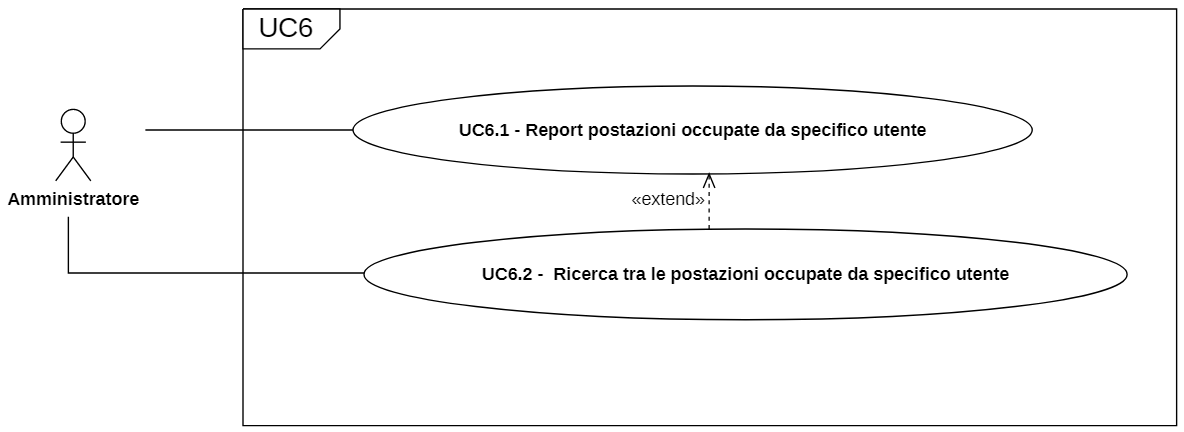
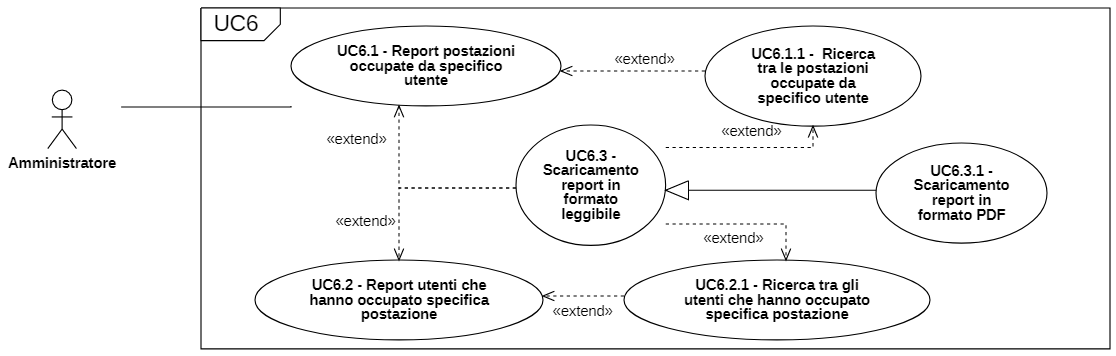
modificati UC6, UC6.1, UC6.2 e aggiunti UC6.1.1, UC6.2.1, UC6.3, UC6.3.1 #36

diff --git a/esterni/AnalisiDeiRequisiti/res/sections/casiUso.tex b/esterni/AnalisiDeiRequisiti/res/sections/casiUso.tex
@@ -453,20 +453,20 @@ In questa sezione sono riportati tutti i casi d'uso individuati, ordinati per at
 	le credenziali selezionate non sono più presenti nel sistema.
 \end{itemize}
 
-\subsubsection{ UC6 - Esplorazione postazioni occupate da uno specifico utente}
+\subsubsection{ UC6 - Esplorazione occupazioni delle postazioni}
 \begin{figure}[H]
 	\centering
-	\includegraphics[width=15cm]{res/images/UC6.png}
-	\caption{Esplorazione postazioni occupate da uno specifico utente}
-	\label{fig:Esplorazione postazioni occupate da uno specifico utente}
+	\includegraphics[width=18cm]{res/images/UC6.png}
+	\caption{Esplorazione occupazioni delle postazioni}
+	\label{fig:Esplorazione occupazioni delle postazioni}
 \end{figure}
 \begin{itemize}
 	\item\textbf{Attori Primari:} 
 	amministratore.
 	\item\textbf{Descrizione:} 
-	l'amministratore ottiene informazioni sulle postazioni occupate da uno specifico utente.
+	l'amministratore ottiene informazioni sugli eventi di occupazione.
 	\item\textbf{Scenario principale:} 
-	l'amministratore raggiunge la pagina per la ricerca delle occupazioni delle postazioni e inserisce il nickname oppure il Nome e Cognome dell'utente a cui è interessato.
+	l'amministratore raggiunge la pagina per la ricerca delle occupazioni delle postazioni e ricerca le informazioni a cui è interessato
 	\item\textbf{Precondizione:} 
 	l'utente è autenticato come amministratore.
 	\item\textbf{Postcondizione:}
@@ -482,16 +482,18 @@ In questa sezione sono riportati tutti i casi d'uso individuati, ordinati per at
            	\item\textbf{Scenario principale:} 
            	l'amministratore raggiunge la pagina per la ricerca delle occupazioni delle postazioni e inserisce il nickname oppure il Nome e Cognome dell'utente a cui è interessato.
            	Nel report vengono visualizzate le date di inizio e fine delle occupazioni e i codici delle postazioni.
-           	\item\textbf{Estensioni:}
-           	ricerca tra le postazioni occupate da uno specifico utente (UC6.2).
+           	\item\textbf{Estensione:}
+           	\begin{itemize}
+           		\item[$-$] Scaricamento del report delle occupazioni in un formato leggibile(UC6.3).
+           		\item[$-$] Ricerca tra le postazioni occupate da uno specifico utente (UC6.1.1).
+           	\end{itemize}
            	\item\textbf{Precondizione:} 
            	l'utente è autenticato come amministratore.
            	\item\textbf{Postcondizione:}
            	l'utente visualizza le informazioni.
 \end{itemize}
 
-
-\subsubsection{ UC6.2 - Ricerca tra le postazioni occupate da uno specifico utente}
+\subsubsection{ UC6.1.1 - Ricerca tra le postazioni occupate da uno specifico utente}
 \begin{itemize}
 	\item\textbf{Attori Primari:} 
 	amministratore
@@ -504,25 +506,150 @@ In questa sezione sono riportati tutti i casi d'uso individuati, ordinati per at
 	\end{itemize}
 	\item\textbf{Scenario principale:} 
 	l'amministratore seleziona i valori con cui vuole precisare la sua ricerca e ottiene la lista delle occupazioni con le relative informazioni.
+	\item\textbf{Estensione:}
+	\begin{itemize}
+		\item[$-$] Scaricamento del report delle occupazioni in un formato leggibile(UC6.3).
+	\end{itemize}
 	\item\textbf{Precondizione:} 
 	l'utente si trova sulla pagina dedicata alla ricerca delle postazioni occupate.
 	\item\textbf{Postcondizione:}
 	l'utente visualizza le informazioni specificate dalla sua ricerca.
 \end{itemize}
 
+\subsubsection{ UC6.2 - Ottenimento report degli utenti che hanno occupato una specifica postazione}
+\begin{itemize}
+	\item\textbf{Attori Primari:} 
+	amministratore.
+	\item\textbf{Descrizione:} 
+	l'amministratore ottiene informazioni in forma tabellare sulle occupazioni di una postazione.
+	\item\textbf{Scenario principale:} 
+	l'amministratore raggiunge la pagina per la ricerca delle occupazioni delle postazioni e inserisce il codice della postazione a cui è interessato.
+	Nel report vengono visualizzate le date di inizio e fine delle occupazioni e i nomi degli utenti.
+	\item\textbf{Estensione:}
+	\begin{itemize}
+		\item[$-$] Scaricamento del report delle occupazioni in un formato leggibile(UC6.3).
+		\item[$-$] Ricerca tra le occupazioni di una specifica postazione (UC6.2.1).
+	\end{itemize}
+	\item\textbf{Precondizione:} 
+	l'utente è autenticato come amministratore.
+	\item\textbf{Postcondizione:}
+	l'utente visualizza le informazioni specificate dalla sua ricerca.
+\end{itemize}
+
+\subsubsection{ UC6.2.1 - Ricerca tra le occupazioni di una specifica postazione}
+\begin{itemize}
+	\item\textbf{Attori Primari:} 
+	amministratore
+	\item\textbf{Descrizione:} 
+	l'amministratore esegue una ricerca specifica tra gli utenti che hanno occupato una specifica postazione.
+	I valori che permettono di precisare la ricerca sono:
+	\begin{itemize}
+		\item[$-$] nome dell'utente
+		\item[$-$] periodo all'interno del quale l'utente occupava la postazione
+	\end{itemize}
+	\item\textbf{Scenario principale:} 
+	l'amministratore seleziona i valori con cui vuole precisare la sua ricerca e ottiene la lista delle occupazioni con le relative informazioni.
+	\item\textbf{Estensione:}
+	\begin{itemize}
+		\item[$-$] Scaricamento del report delle occupazioni in un formato leggibile(UC6.3).
+	\end{itemize}
+	\item\textbf{Precondizione:} 
+	l'utente si trova sulla pagina dedicata alla ricerca delle occupazioni.
+	\item\textbf{Postcondizione:}
+	l'utente visualizza le informazioni specificate dalla sua ricerca.
+\end{itemize}
+
+\subsubsection{ UC6.3 - Scaricamento del report delle occupazioni in un formato leggibile}
+\begin{itemize}
+	\item\textbf{Attori Primari:} 
+	amministratore
+	\item\textbf{Descrizione:} 
+	l'amministratore scarica il report delle occupazioni che sta visualizzando in un formato leggibile.
+	\item\textbf{Scenario principale:} 
+	l'amministratore preme un pulsante per lo scaricamento del report che sta visualizzando.
+	\item\textbf{Precondizione:} 
+	l'utente sta visualizzando un report.
+	\item\textbf{Postcondizione:}
+	l'utente ha scaricato il report.
+\end{itemize}
+
+\subsubsection{ UC6.3.1 - Scaricamento del report delle occupazioni in formato PDF}
+\begin{itemize}
+	\item\textbf{Attori Primari:} 
+	amministratore
+	\item\textbf{Descrizione:} 
+	l'amministratore scarica il report delle occupazioni che sta visualizzando in formato PDF.
+	\item\textbf{Scenario principale:} 
+	l'amministratore preme un pulsante per lo scaricamento del report che sta visualizzando in formato PDF.
+	\item\textbf{Generalizzazione:}
+	\begin{itemize}
+		\item[$-$] Scaricamento del report delle occupazioni (UC6.3).
+	\end{itemize}
+	\item\textbf{Precondizione:} 
+	l'utente sta visualizzando un report.
+	\item\textbf{Postcondizione:}
+	l'utente ha scaricato il report in formato PDF.
+\end{itemize}
+
+
+
+
+
 \subsubsection{ UC7 - Report sanificazioni postazione}
 \begin{itemize}
            	\item\textbf{Attori Primari:} 
            	amministratore.
            	\item\textbf{Descrizione:} 
-           	l'amministratore ottiene una tabella delle sanificazioni di tutte le postazioni con la data e l'ora in cui sono avvenute.
+           	l'amministratore ottiene una tabella delle sanificazioni di tutte le postazioni con:
+           	\begin{itemize}
+           		\item[$-$] data e ora in cui sono avvenute
+           		\item[$-$] nome e cognome di chi le ha eseguite
+           		\item[$-$] ruolo di chi le ha eseguite (dipendente o addetto alle pulizie)
+           	\end{itemize}
            	\item\textbf{Scenario principale:} 
            	l'amministratore raggiunge la pagina di esplorazione delle sanificazioni e visualizza la lista delle sanificazioni con le informazioni correlate.
+			\item\textbf{Estensioni:}
+			\begin{itemize}
+				\item[$-$] Scaricamento del report delle igienizzazioni in un formato leggibile(UC7.1).
+			\end{itemize}
            	\item\textbf{Precondizione:} 
            	l'utente è autenticato come amministratore.
            	\item\textbf{Postcondizione:}
            	l'utente visualizza le informazioni.
 \end{itemize}
+
+\subsubsection{ UC7.1 - Scaricamento del report delle igienizzazioni in un formato leggibile}
+\begin{itemize}
+	\item\textbf{Attori Primari:} 
+	amministratore
+	\item\textbf{Descrizione:} 
+	l'amministratore scarica il report delle igienizzazioni che sta visualizzando in un formato leggibile.
+	\item\textbf{Scenario principale:} 
+	l'amministratore preme un pulsante per lo scaricamento del report che sta visualizzando.
+	\item\textbf{Estensioni:}
+	\begin{itemize}
+		\item[$-$] Scaricamento del report delle igienizzazioni in un formato leggibile(UC7.1.1).
+	\end{itemize}
+	\item\textbf{Precondizione:} 
+	l'utente sta visualizzando un report.
+	\item\textbf{Postcondizione:}
+	l'utente ha scaricato il report.
+\end{itemize}
+
+\subsubsection{ UC7.1.1 - Scaricamento del report delle igienizzazioni in formato PDF}
+\begin{itemize}
+	\item\textbf{Attori Primari:} 
+	amministratore
+	\item\textbf{Descrizione:} 
+	l'amministratore scarica il report delle igienizzazioni che sta visualizzando formato PDF.
+	\item\textbf{Scenario principale:} 
+	l'amministratore preme un pulsante per lo scaricamento del report che sta visualizzando.
+	\item\textbf{Precondizione:} 
+	l'utente sta visualizzando un report.
+	\item\textbf{Postcondizione:}
+	l'utente ha scaricato il report.
+\end{itemize}
+
 
 \subsubsection{ UC8 - Visualizzazione stato postazione}
 \begin{figure}[H]
